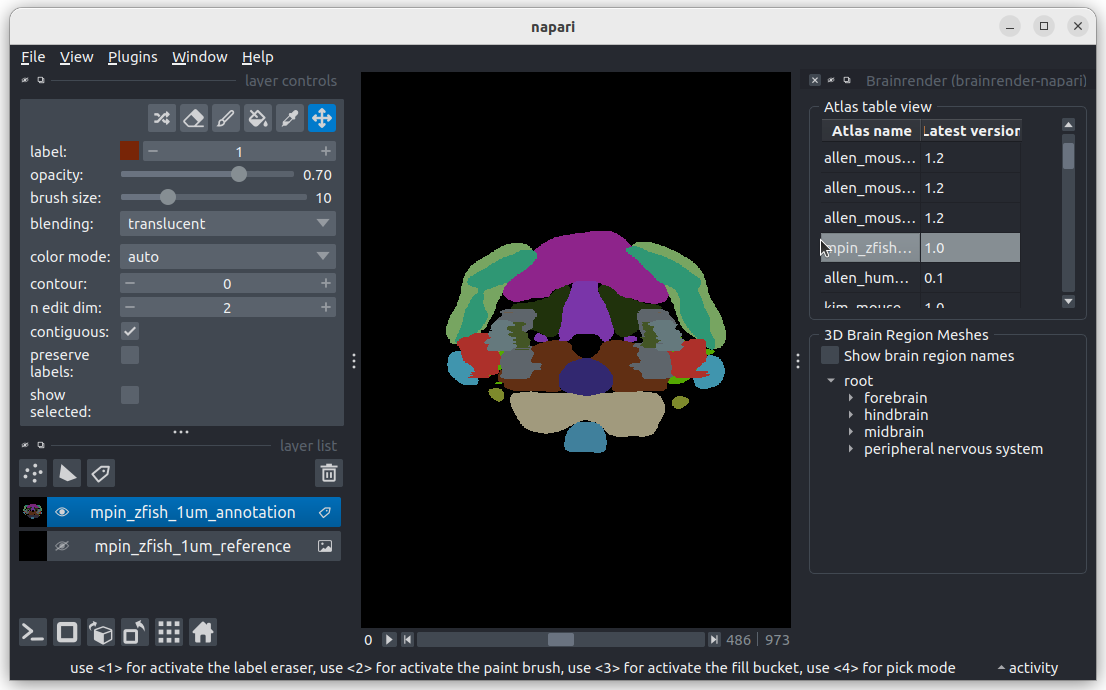
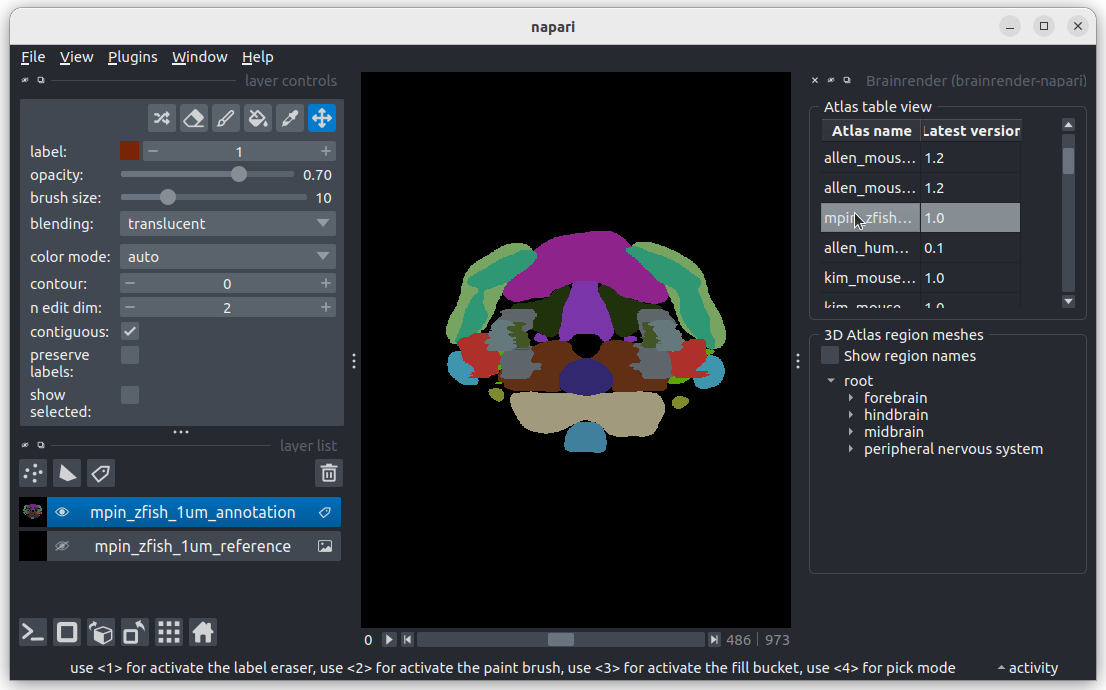
Nicer captions / updated text&screenshots (#61)
* add empty lines to put captions on new line

* brain region > atlas region in text

+fix typo

* brain region > atlas region in .png

* small clarification

Changed region(s): [[0.7378, 0.2739, 0.9222, 0.4261], [0.7685, 0.4565, 0.9222, 0.5478]]

diff --git a/docs/source/tutorials/visualise-atlas-napari.md b/docs/source/tutorials/visualise-atlas-napari.md
@@ -1,6 +1,6 @@
 ## Visualise an atlas in napari
 
-BrainGlobe atlases are made of different components. These include the annotations image, the (default) reference image, 3D brain region meshes and, optionally, additional reference images. In this tutorial, you will use `brainrender-napari` to visualise each of these components in the 3D viewer napari through a series of simple clicks. The [`mpin_zfish_1um` zebrafish brain atlas](https://doi.org/10.1016/j.neuron.2019.04.034) will serve as an example. 
+BrainGlobe atlases are made of different components. These include the annotations image, the (default) reference image, 3D atlas region meshes and, optionally, additional reference images. In this tutorial, you will use `brainrender-napari` to visualise each of these components in the 3D viewer napari through a series of simple clicks. The [`mpin_zfish_1um` zebrafish brain atlas](https://doi.org/10.1016/j.neuron.2019.04.034) will serve as an example. 
 
 :::{note}
 You will need `napari` installed on your computer - please follow [`napari`'s installation instructions to do so](https://napari.org/stable/tutorials/fundamentals/installation.html).
@@ -10,28 +10,33 @@ You will need `napari` installed on your computer - please follow [`napari`'s in
 2. Install `brainrender-napari` by selecting `Plugins > Install/Uninstall plugins` and searching for `brainrender-napari` in the searchbox. Then click on the `Install` button.
 3. Open the `brainrender` widget by selecting `Plugins > Brainrender (brainrender-napari)` in the napari menu bar near the top left of the window. 
 ![brainrender widget](./images/brainrender-napari/plugin-menu-brainrender-napari.png)
+
 **The brainrender widget appears on the right hand side of the window.**
 
-4. In the `brainrender` widget's `Atlas table view` section, double-click the row which contains the `mpin_zfish_1um` atlas.
+4. In the `brainrender` widget's `Atlas table view` section, double-click the row which contains the `mpin_zfish_1um` atlas (you may have to scroll down slightly).
 ![brainrender widget with added annotations](./images/brainrender-napari/added-brainrender-napari.png)
-**You have now added the annotations image and the default reference image to napari: They appear as layers in the napari layers list on the lower left of the window. A `3D Brain region meshes` section appears below the `Atlas table view` section.**
+
+**You have now added the annotations image and the default reference image to napari: They appear as layers in the napari layers list on the lower left of the window. A `3D Atlas region meshes` section appears below the `Atlas table view` section.**
 
 :::{note}
 If you haven't downloaded the atlas before, the plugin will prompt you to download it (click yes). It may take a long time
-(depending on your internet speed) so please be patient. Once downloaded, double click again to view the atlas.
+(depending on your internet speed) so please be patient. Once downloaded, double-click again to view the atlas.
 :::
 
 5. Toggle the napari display from 2D to 3D by pressing the button with the square icon on the lower left of the window.
 ![brainrender widget with 3d display](./images/brainrender-napari/toggle-ndisplay-brainrender-napari.png)
+
 **The annotations image should now be displayed in 3D.**
-6. Navigate the brain region tree in the `3D Brain region meshes` section by opening "forebrain". Double-click on `telencephalon`.
+6. Navigate the brain region tree in the `3D Atlas region meshes` section by opening "forebrain". Double-click on `telencephalon`.
 ![brainrender widget with region mesh](./images/brainrender-napari/add-region-brainrender-napari.png)
- **You have now added a 3D brain region mesh layer, which appears as a mesh in the viewer and as a new layer in the layers list.**
+
+ **You have now added a 3D atlas region mesh layer, which appears as a mesh in the viewer and as a new layer in the layers list.**
 7. Back in the "Atlas table view" section, right-click on the `mpin_zfish_1um` row. In the menu that appears, select `GAD1b`.
 ![brainrender widget with additional reference](./images/brainrender-napari/additional-reference-brainrender-napari.png)
+
 **You have now added an additional reference image, which appears as a grey scale image in the viewer and as a new layer in the layers list.**
 
-You have now added all possible kinds of BrainGlobe atlas components (annotations image, reference image, 3D brain region mesh, additional reference) to napari - well done! You can now add any of the other atlases listed in the `Atlas table view` if you like (note that not all atlases have additional references!). 
+You have now added all possible kinds of BrainGlobe atlas components (annotations image, reference image, 3D atlas region mesh, additional reference) to napari - well done! You can now add any of the other atlases listed in the `Atlas table view` if you like (note that not all atlases have additional references!). 
 
 :::{note}
 Hover over any of the elements in the `brainrender` widget to get additional hints about how to use them!
